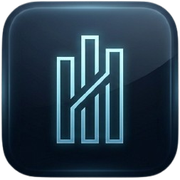
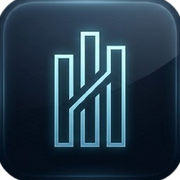
Refinar analisis anual y ajustar icono

diff --git a/components/analytics/analytics-screen.tsx b/components/analytics/analytics-screen.tsx
@@ -4,6 +4,7 @@ import { ArrowUpRight, BanknoteArrowDown, CircleDollarSign } from 'lucide-react'
 
 import { AnnualBalanceChart } from '@/components/analytics/annual-balance-chart';
 import { DailyPulseStrip } from '@/components/analytics/daily-pulse-strip';
+import { AnimatedValue } from '@/components/shared/animated-value';
 import { SurfaceCard } from '@/components/shared/surface-card';
 import type { AnnualAnalyticsData, CategoryTotal, DashboardData } from '@/lib/domain/types';
 import { formatCurrency, formatPercent } from '@/lib/utils/currency';
@@ -40,9 +41,8 @@ export function AnalyticsScreen({
             <div className="flex items-start justify-between gap-4">
               <div>
                 <p className="text-sm text-white/58">{period.year}, acumulado hasta {annualData.months.at(-1)?.label ?? ''}</p>
-                <h1 className={`mt-2 text-[2.5rem] font-semibold leading-none tracking-tight ${annualData.netAmount >= 0 ? 'text-white' : 'text-rose-300'}`}>
-                  {annualData.netAmount > 0 ? '+' : annualData.netAmount < 0 ? '-' : ''}
-                  {formatCurrency(Math.abs(annualData.netAmount))}
+                <h1 className={`mt-2 text-[2.5rem] font-semibold leading-none tracking-tight ${annualData.netAmount >= 0 ? 'text-emerald-300' : 'text-rose-300'}`}>
+                  <AnimatedValue value={annualData.netAmount} kind="currency" positivePrefix className="tabular-nums" />
                 </h1>
               </div>
               <div className={`rounded-full px-3 py-1 text-xs ${annualData.netAmount >= 0 ? 'bg-emerald-500/15 text-emerald-300' : 'bg-rose-500/15 text-rose-300'}`}>
@@ -51,9 +51,9 @@ export function AnalyticsScreen({
             </div>
 
             <div className="grid grid-cols-3 gap-3">
-              <DeltaChip label="ingresos" value={formatCurrency(annualData.totalIncome)} icon={<ArrowUpRight size={16} />} forcePositive />
-              <DeltaChip label="gastos" value={formatCurrency(annualData.totalExpense)} icon={<BanknoteArrowDown size={16} />} />
-              <DeltaChip label="ahorro" value={formatPercent(annualData.savingsRate)} icon={<CircleDollarSign size={16} />} forcePositive={annualData.netAmount >= 0} />
+              <DeltaChip label="ingresos" value={annualData.totalIncome} kind="currency" icon={<ArrowUpRight size={16} />} forcePositive />
+              <DeltaChip label="gastos" value={annualData.totalExpense} kind="currency" icon={<BanknoteArrowDown size={16} />} />
+              <DeltaChip label="ahorro" value={annualData.savingsRate} kind="percent" icon={<CircleDollarSign size={16} />} forcePositive={annualData.netAmount >= 0} />
             </div>
           </div>
         </SurfaceCard>
@@ -115,9 +115,8 @@ export function AnalyticsScreen({
           <div className="flex items-start justify-between gap-4">
             <div>
               <p className="text-sm capitalize text-white/58">{data.summary.monthLabel.toLowerCase()}</p>
-              <h1 className={`mt-2 text-[2.5rem] font-semibold leading-none tracking-tight ${data.summary.netAmount >= 0 ? 'text-white' : 'text-rose-300'}`}>
-                {data.summary.netAmount > 0 ? '+' : data.summary.netAmount < 0 ? '-' : ''}
-                {formatCurrency(Math.abs(data.summary.netAmount))}
+              <h1 className={`mt-2 text-[2.5rem] font-semibold leading-none tracking-tight ${data.summary.netAmount >= 0 ? 'text-emerald-300' : 'text-rose-300'}`}>
+                <AnimatedValue value={data.summary.netAmount} kind="currency" positivePrefix className="tabular-nums" />
               </h1>
             </div>
             <div className={`rounded-full px-3 py-1 text-xs ${data.summary.netAmount >= 0 ? 'bg-emerald-500/15 text-emerald-300' : 'bg-rose-500/15 text-rose-300'}`}>
@@ -126,9 +125,9 @@ export function AnalyticsScreen({
           </div>
 
           <div className="grid grid-cols-3 gap-3">
-            <DeltaChip label="ingresos" value={formatCurrency(data.summary.totalIncome)} delta={data.summary.totalIncome - previousData.summary.totalIncome} positiveDirection="up" icon={<ArrowUpRight size={16} />} />
-            <DeltaChip label="gastos" value={formatCurrency(data.summary.totalExpense)} delta={data.summary.totalExpense - previousData.summary.totalExpense} positiveDirection="down" icon={<BanknoteArrowDown size={16} />} />
-            <DeltaChip label="ahorro" value={formatPercent(data.summary.savingsRate)} delta={data.summary.netAmount - previousData.summary.netAmount} positiveDirection="up" icon={<CircleDollarSign size={16} />} percentValue />
+            <DeltaChip label="ingresos" value={data.summary.totalIncome} delta={data.summary.totalIncome - previousData.summary.totalIncome} positiveDirection="up" icon={<ArrowUpRight size={16} />} />
+            <DeltaChip label="gastos" value={data.summary.totalExpense} delta={data.summary.totalExpense - previousData.summary.totalExpense} positiveDirection="down" icon={<BanknoteArrowDown size={16} />} />
+            <DeltaChip label="ahorro" value={data.summary.savingsRate} delta={data.summary.netAmount - previousData.summary.netAmount} positiveDirection="up" icon={<CircleDollarSign size={16} />} kind="percent" />
           </div>
         </div>
       </SurfaceCard>
@@ -187,18 +186,35 @@ function ModeSwitch({ monthlyHref, annualHref, active }: { monthlyHref: string; 
   );
 }
 
-function DeltaChip({ label, value, delta, icon, positiveDirection, percentValue = false, forcePositive }: { label: string; value: string; delta?: number; icon: ReactNode; positiveDirection?: 'up' | 'down'; percentValue?: boolean; forcePositive?: boolean; }) {
+function DeltaChip({
+  label,
+  value,
+  delta,
+  icon,
+  positiveDirection,
+  kind = 'currency',
+  forcePositive
+}: {
+  label: string;
+  value: number;
+  delta?: number;
+  icon: ReactNode;
+  positiveDirection?: 'up' | 'down';
+  kind?: 'currency' | 'percent';
+  forcePositive?: boolean;
+}) {
   const positive = forcePositive ?? (positiveDirection === 'up' ? (delta ?? 0) >= 0 : (delta ?? 0) <= 0);
 
   return (
     <div className="rounded-3xl border border-white/8 bg-white/[0.03] p-3">
       <div className={`inline-flex rounded-full p-2 ${positive ? 'bg-emerald-500/12 text-emerald-300' : 'bg-rose-500/12 text-rose-300'}`}>{icon}</div>
       <p className="mt-3 text-[11px] uppercase tracking-[0.18em] text-white/38">{label}</p>
-      <p className="mt-1 text-sm font-medium text-white">{value}</p>
+      <p className="mt-1 text-sm font-medium text-white">
+        <AnimatedValue value={value} kind={kind} positivePrefix={false} className="tabular-nums" />
+      </p>
       {typeof delta === 'number' ? (
         <p className={`mt-2 text-xs ${positive ? 'text-emerald-300' : 'text-rose-300'}`}>
-          {delta > 0 ? '+' : delta < 0 ? '-' : ''}
-          {percentValue ? formatCurrency(Math.abs(delta)) : formatCurrency(Math.abs(delta))}
+          <AnimatedValue value={delta} kind="currency" positivePrefix className="tabular-nums" />
         </p>
       ) : null}
     </div>
@@ -259,15 +275,15 @@ function MovementList({ items, emptyText, amountClass }: { items: DashboardData[
   }
 
   return (
-    <div className="space-y-3">
-      {items.map((item) => (
-        <div key={item.id} className="rounded-2xl bg-white/[0.03] px-3 py-3">
+    <div className="grid grid-cols-1 gap-3">
+      {items.map((transaction) => (
+        <div key={transaction.id} className="rounded-[28px] bg-white/[0.03] px-5 py-4">
           <div className="flex items-start justify-between gap-3">
             <div className="min-w-0">
-              <p className="truncate text-sm font-medium text-white">{item.description}</p>
-              <p className="mt-1 text-xs text-white/44">{item.categoryName} · {formatShortDate(item.transactionDate).toLowerCase()}</p>
+              <p className="truncate text-base font-medium text-white">{transaction.description}</p>
+              <p className="mt-2 text-sm text-white/48">{transaction.categoryName} · {formatShortDate(transaction.transactionDate)}</p>
             </div>
-            <p className={`shrink-0 text-sm font-medium ${amountClass}`}>{item.type === 'income' ? '+' : '-'}{formatCurrency(item.amount)}</p>
+            <span className={`shrink-0 text-[1.1rem] font-medium ${amountClass}`}>{transaction.type === 'income' ? '+' : '-'}{formatCurrency(transaction.amount)}</span>
           </div>
         </div>
       ))}
@@ -276,5 +292,9 @@ function MovementList({ items, emptyText, amountClass }: { items: DashboardData[
 }
 
 function EmptyCardText({ text }: { text: string }) {
-  return <div className="rounded-[24px] border border-dashed border-white/10 p-4 text-sm text-white/44">{text}</div>;
+  return (
+    <div className="rounded-3xl border border-dashed border-white/10 px-4 py-5 text-sm text-white/42">
+      {text}
+    </div>
+  );
 }

diff --git a/components/analytics/annual-balance-chart.tsx b/components/analytics/annual-balance-chart.tsx
@@ -1,10 +1,46 @@
+'use client';
+
+import { useMemo, useState } from 'react';
+
+import { AnimatedValue } from '@/components/shared/animated-value';
 import { SurfaceCard } from '@/components/shared/surface-card';
 import type { AnnualBalancePoint } from '@/lib/domain/types';
-import { formatCurrency } from '@/lib/utils/currency';
 
 export function AnnualBalanceChart({ months }: { months: AnnualBalancePoint[] }) {
-  const maxAbs = Math.max(...months.map((item) => Math.abs(item.closingBalance)), 1);
-  const current = months[months.length - 1];
+  const [selectedIndex, setSelectedIndex] = useState(Math.max(0, months.length - 1));
+
+  const chart = useMemo(() => {
+    if (months.length === 0) {
+      return null;
+    }
+
+    const width = 620;
+    const height = 180;
+    const paddingX = 28;
+    const paddingY = 18;
+    const values = months.map((item) => item.closingBalance);
+    const minValue = Math.min(...values);
+    const maxValue = Math.max(...values);
+    const range = Math.max(maxValue - minValue, Math.max(Math.abs(maxValue), Math.abs(minValue)) * 0.1, 1);
+    const yMin = minValue - range * 0.14;
+    const yMax = maxValue + range * 0.14;
+
+    const stepX = months.length === 1 ? 0 : (width - paddingX * 2) / (months.length - 1);
+
+    const points = months.map((month, index) => {
+      const x = paddingX + stepX * index;
+      const y = paddingY + ((yMax - month.closingBalance) / (yMax - yMin)) * (height - paddingY * 2);
+      return { ...month, x, y };
+    });
+
+    const path = points
+      .map((point, index) => `${index === 0 ? 'M' : 'L'} ${point.x.toFixed(2)} ${point.y.toFixed(2)}`)
+      .join(' ');
+
+    return { width, height, points, path };
+  }, [months]);
+
+  const selected = months[selectedIndex] ?? null;
 
   return (
     <SurfaceCard className="p-5">
@@ -13,38 +49,66 @@ export function AnnualBalanceChart({ months }: { months: AnnualBalancePoint[] })
           <p className="text-sm text-white/55">evolución anual del saldo</p>
           <p className="mt-1 text-xs text-white/38">saldo de cierre por mes</p>
         </div>
-        <p className={`text-sm font-medium ${current && current.closingBalance >= 0 ? 'text-emerald-300' : 'text-rose-300'}`}>
-          {current ? formatCurrency(current.closingBalance) : '0 €'}
-        </p>
+        <div className="text-right">
+          <p className="text-xs text-white/40">{selected?.label ?? ''}</p>
+          <p className={`mt-1 text-lg font-medium ${selected && selected.closingBalance >= 0 ? 'text-emerald-300' : 'text-rose-300'}`}>
+            <AnimatedValue value={selected?.closingBalance ?? 0} kind="currency" positivePrefix className="tabular-nums" />
+          </p>
+        </div>
       </div>
 
-      <div className="flex h-[156px] items-end gap-2">
-        {months.map((month, index) => {
-          const height = Math.max(18, Math.round((Math.abs(month.closingBalance) / maxAbs) * 108));
-          const positive = month.closingBalance >= 0;
-          const active = index === months.length - 1;
+      {chart ? (
+        <div className="rounded-[28px] border border-white/6 bg-white/[0.02] px-4 py-4">
+          <div className="relative h-[190px]">
+            <svg viewBox={`0 0 ${chart.width} ${chart.height}`} className="h-[190px] w-full overflow-visible">
+              {[0.25, 0.5, 0.75].map((ratio) => {
+                const y = chart.height * ratio;
+                return (
+                  <line
+                    key={ratio}
+                    x1={18}
+                    y1={y}
+                    x2={chart.width - 18}
+                    y2={y}
+                    stroke="rgba(255,255,255,0.08)"
+                    strokeDasharray="5 7"
+                    strokeWidth="1"
+                  />
+                );
+              })}
 
-          return (
-            <div key={month.month} className="flex min-w-0 flex-1 flex-col items-center gap-3">
-              <div className="flex h-[124px] items-end">
-                <div
-                  className={`w-full rounded-[16px] transition-all ${
-                    positive
-                      ? active
-                        ? 'bg-[linear-gradient(180deg,rgba(168,237,255,0.98),rgba(82,164,255,0.78))] shadow-[0_14px_26px_rgba(82,164,255,0.18)]'
-                        : 'bg-[linear-gradient(180deg,rgba(154,224,255,0.92),rgba(70,130,255,0.7))]'
-                      : active
-                        ? 'bg-[linear-gradient(180deg,rgba(255,186,198,0.98),rgba(255,95,128,0.84))] shadow-[0_14px_26px_rgba(255,95,128,0.18)]'
-                        : 'bg-[linear-gradient(180deg,rgba(255,182,194,0.9),rgba(255,104,139,0.74))]'
-                  }`}
-                  style={{ height: `${height}px` }}
-                />
-              </div>
-              <span className="text-[11px] text-white/45">{month.label}</span>
-            </div>
-          );
-        })}
-      </div>
+              <path d={chart.path} fill="none" stroke="rgba(132,197,255,0.92)" strokeWidth="3" strokeLinecap="round" strokeLinejoin="round" />
+
+              {chart.points.map((point, index) => {
+                const active = index === selectedIndex;
+                return (
+                  <g key={point.month} onClick={() => setSelectedIndex(index)} className="cursor-pointer">
+                    <circle cx={point.x} cy={point.y} r={active ? 8 : 5.5} fill={active ? 'rgba(114,201,255,1)' : 'rgba(198,233,255,0.95)'} />
+                    {active ? <circle cx={point.x} cy={point.y} r={14} fill="rgba(82,164,255,0.18)" /> : null}
+                  </g>
+                );
+              })}
+            </svg>
+          </div>
+
+          <div className="mt-2 flex items-center justify-between gap-2 px-1 text-[11px] text-white/42">
+            {months.map((month, index) => (
+              <button
+                key={month.month}
+                type="button"
+                onClick={() => setSelectedIndex(index)}
+                className={`min-w-0 flex-1 rounded-full px-1 py-1 transition ${index === selectedIndex ? 'text-white' : 'hover:text-white/72'}`}
+              >
+                {month.label}
+              </button>
+            ))}
+          </div>
+        </div>
+      ) : (
+        <div className="rounded-3xl border border-dashed border-white/10 px-4 py-8 text-sm text-white/42">
+          Todavía no hay meses suficientes para dibujar la evolución anual.
+        </div>
+      )}
     </SurfaceCard>
   );
 }
